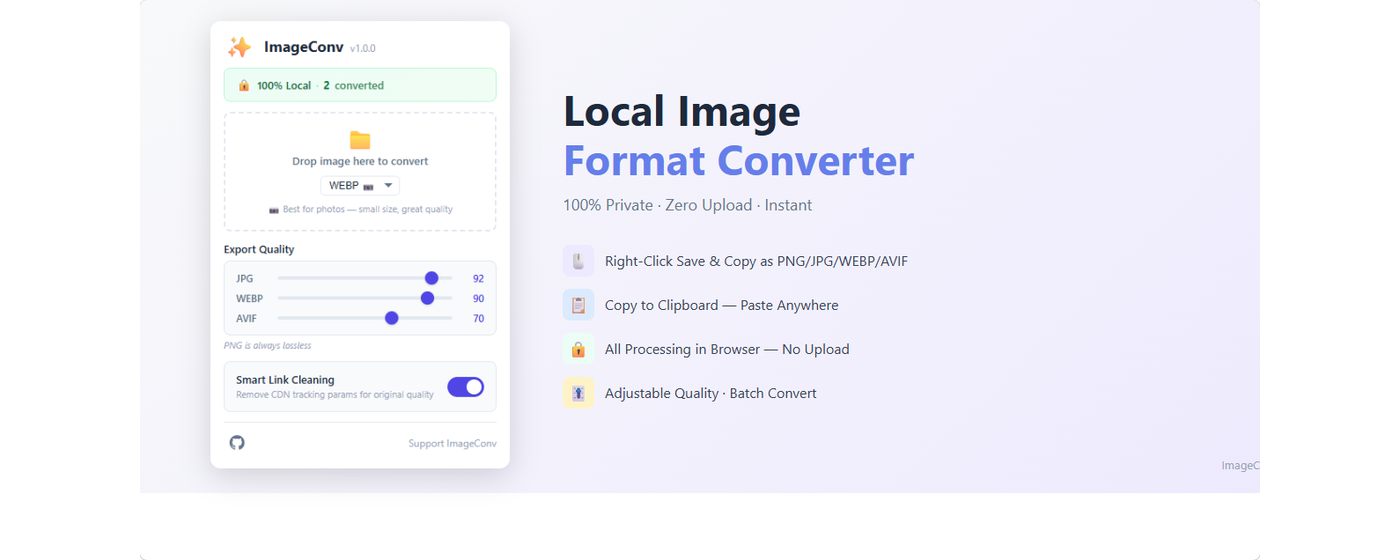
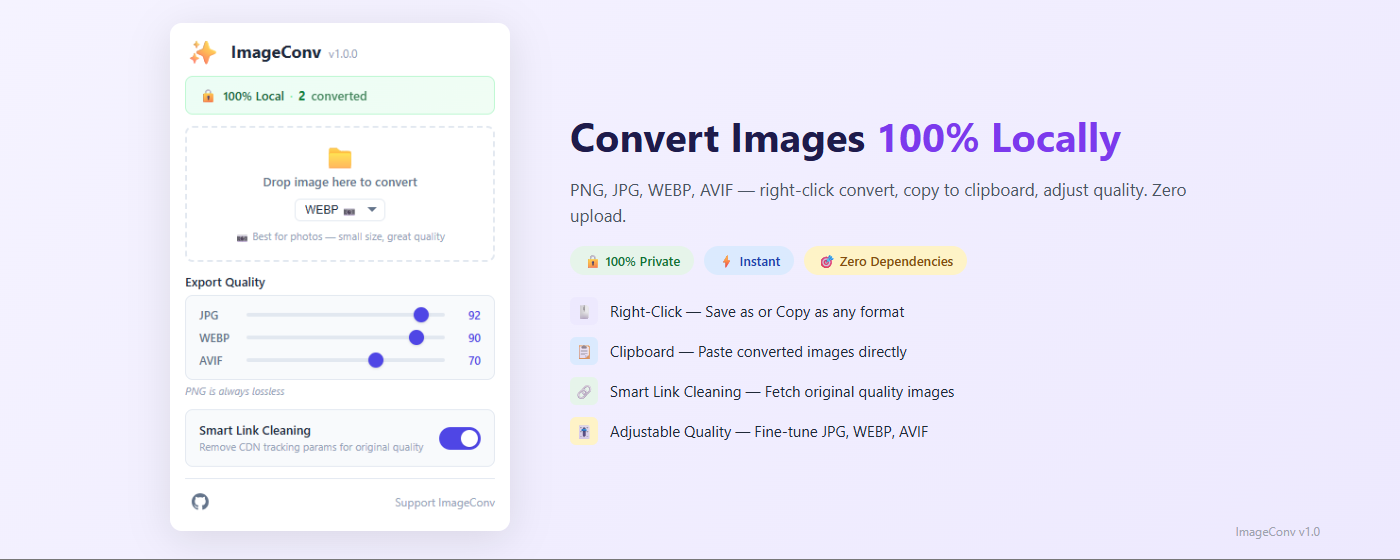
up images

diff --git a/README.md b/README.md
@@ -1,10 +1,10 @@
 # ImageConv
 
-English | [中文](README_zh.md) | [Español](README_es.md) | [Deutsch](README_de.md) | [日本語](README_ja.md) | [Français](README_fr.md)
+English | [中文](languages/README_zh.md) | [Español](languages/README_es.md) | [Deutsch](languages/README_de.md) | [日本語](languages/README_ja.md) | [Français](languages/README_fr.md)
 
 A lightweight browser extension that converts images between PNG, JPG, WEBP, and AVIF formats — entirely locally, with zero data upload.
 
-> Chromium-based · Manifest V3 · Zero tracking · 100% In-Browser Processing
+> Chromium-based · Manifest V3 · Zero tracking · Fully In-Browser Processing
 
 ---
 
@@ -169,6 +169,16 @@ All quality values are adjustable via sliders in the popup (range: 10–100).
 
 ---
 
+## Copyright Disclaimer
+
+This extension only provides local image format conversion capabilities for users' personal offline processing. All pictures, photos and graphic resources on web pages belong to the original copyright owner. Users shall not use converted images for commercial reproduction, unauthorized distribution, secondary creation and other copyright-infringing acts. All legal liabilities arising from improper use shall be borne solely by the user.
+
+## Cross-origin Image Reminder
+
+The cross-origin image fetch function is only used to obtain image resources for local format conversion. It is forbidden to use this function to mass crawl website image resources in batches, which may violate the website's access rules.
+
+---
+
 ## License
 
 Copyright © 2026 ImageConv. All rights reserved.
@@ -184,4 +194,3 @@ If you find ImageConv helpful, consider supporting the project!
 
 ---
 
-> **Note:** All core conversion features will always remain free with no limitations.